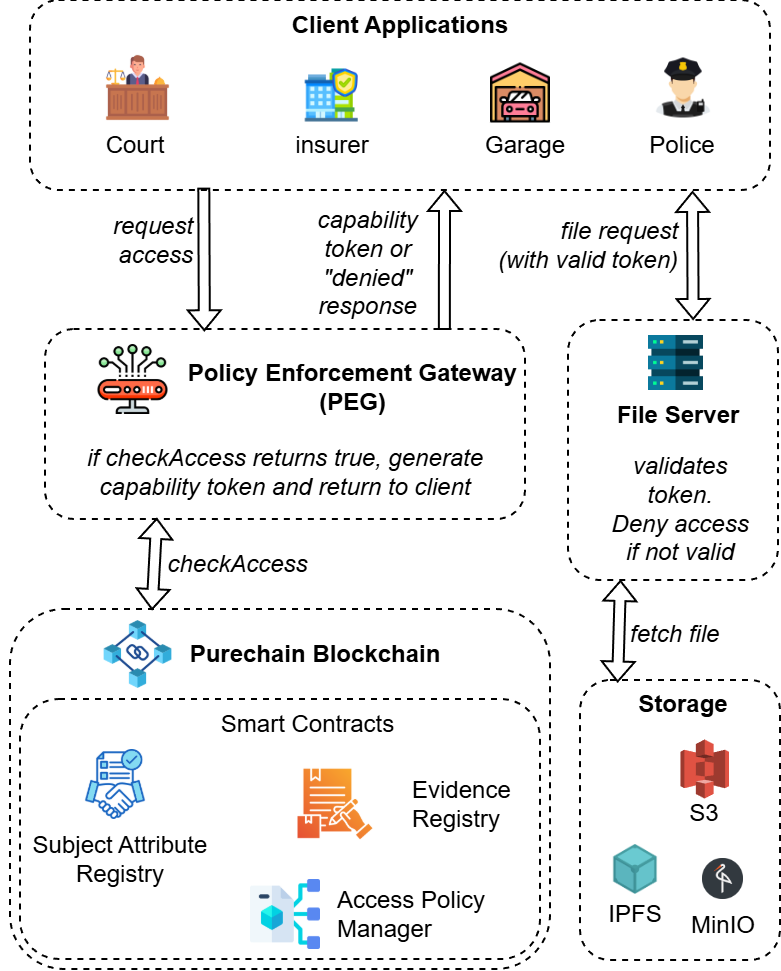
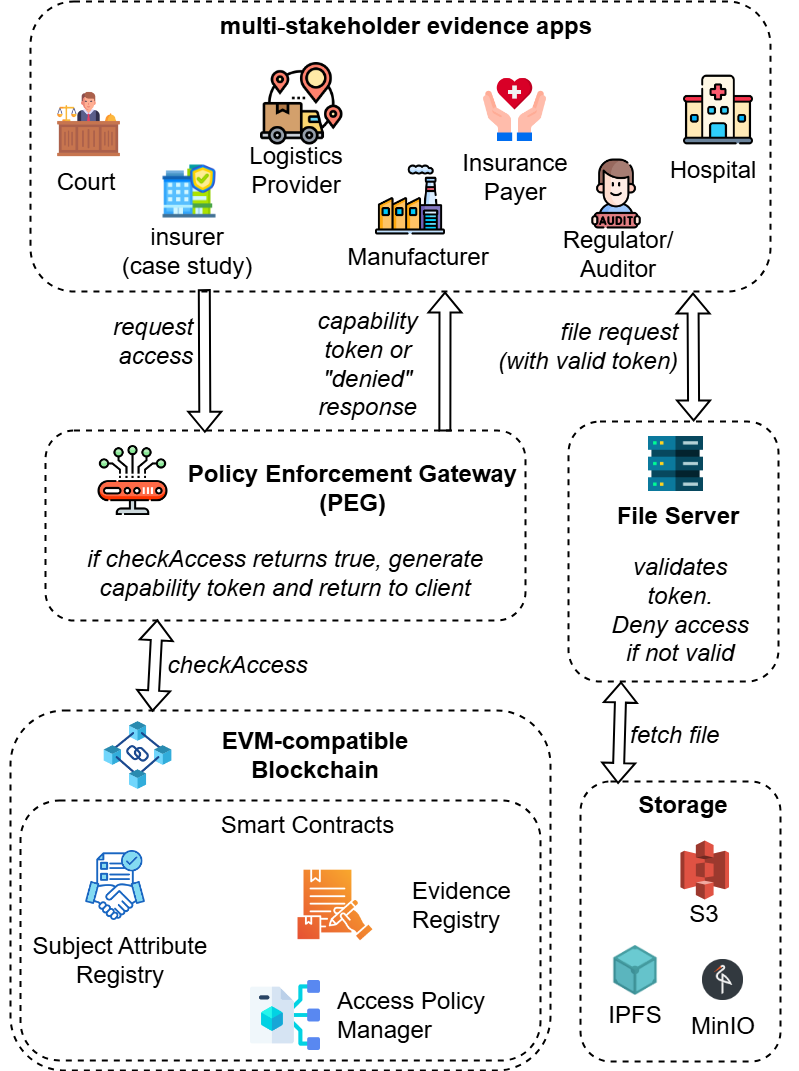
fix: update figure reference in paper.tex to use PNG format for architecture diagram

diff --git a/papers/2_journal/paper.tex b/papers/2_journal/paper.tex
@@ -205,9 +205,9 @@ These constraints translate into specific system requirements applicable across 
 
 PACE anchors authorization decisions on Ethereum-compatible smart contracts while enforcing access to off-chain evidence through a Policy Enforcement Gateway. The smart contracts function as a tamper-resistant policy decision point, while file servers validate capability tokens before retrieving evidence from cloud or IPFS backends, as illustrated in Figure~\ref{fig:architecture}. This architecture implements three core components that together provide fine-grained, action-aware, context-sensitive authorization over heterogeneous evidence while maintaining tamper-resistant evaluation independent of cloud infrastructure.
 
-\begin{figure}
+\begin{figure}[t]
 	\centering
-	\includegraphics[width=0.45\textwidth]{figures/architecture_pace.pdf}
+	\includegraphics[width=0.45\textwidth]{figures/architecture.png}
 	\caption{System architecture: clients call the PEG, which queries blockchain smart contracts and issues short-lived capabilities for cloud/IPFS evidence access.}
 	\label{fig:architecture}
 \end{figure}
